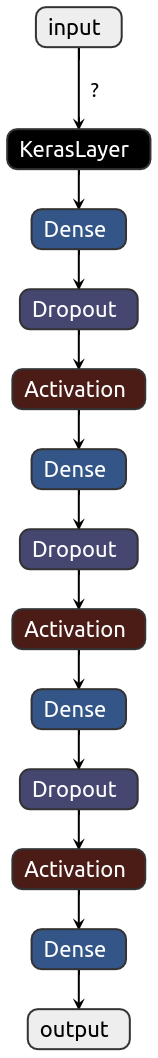
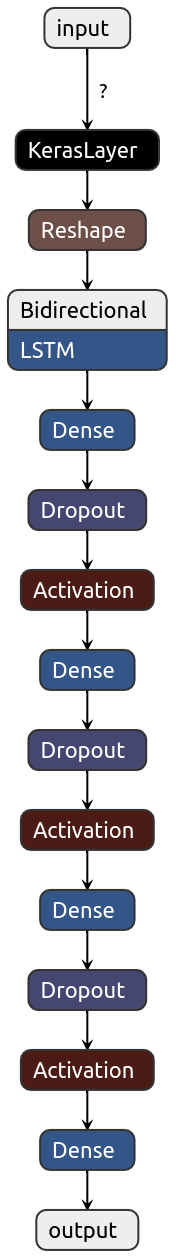
chnage test results and add new arch images

diff --git a/README.md b/README.md
@@ -82,6 +82,7 @@ sudo docker run --network="host" valnet
 
 ## Build model results 
 
-| Test Loss|      Test Accuracy      |
-|----------|:-------------:|
-|  0.18961983575718477 |   0.9250749349594116 |
+| Test Loss|      Test Accuracy      | version |
+|----------|:-------------:|:-------------:|
+|  0.18961983575718477 |   0.9250749349594116 | 0.1 (embedding + dense layer)|
+|  0.18565583880990744 |   0.9070929288864136 | 0.2 (embedding + lstm + dense layer) |
